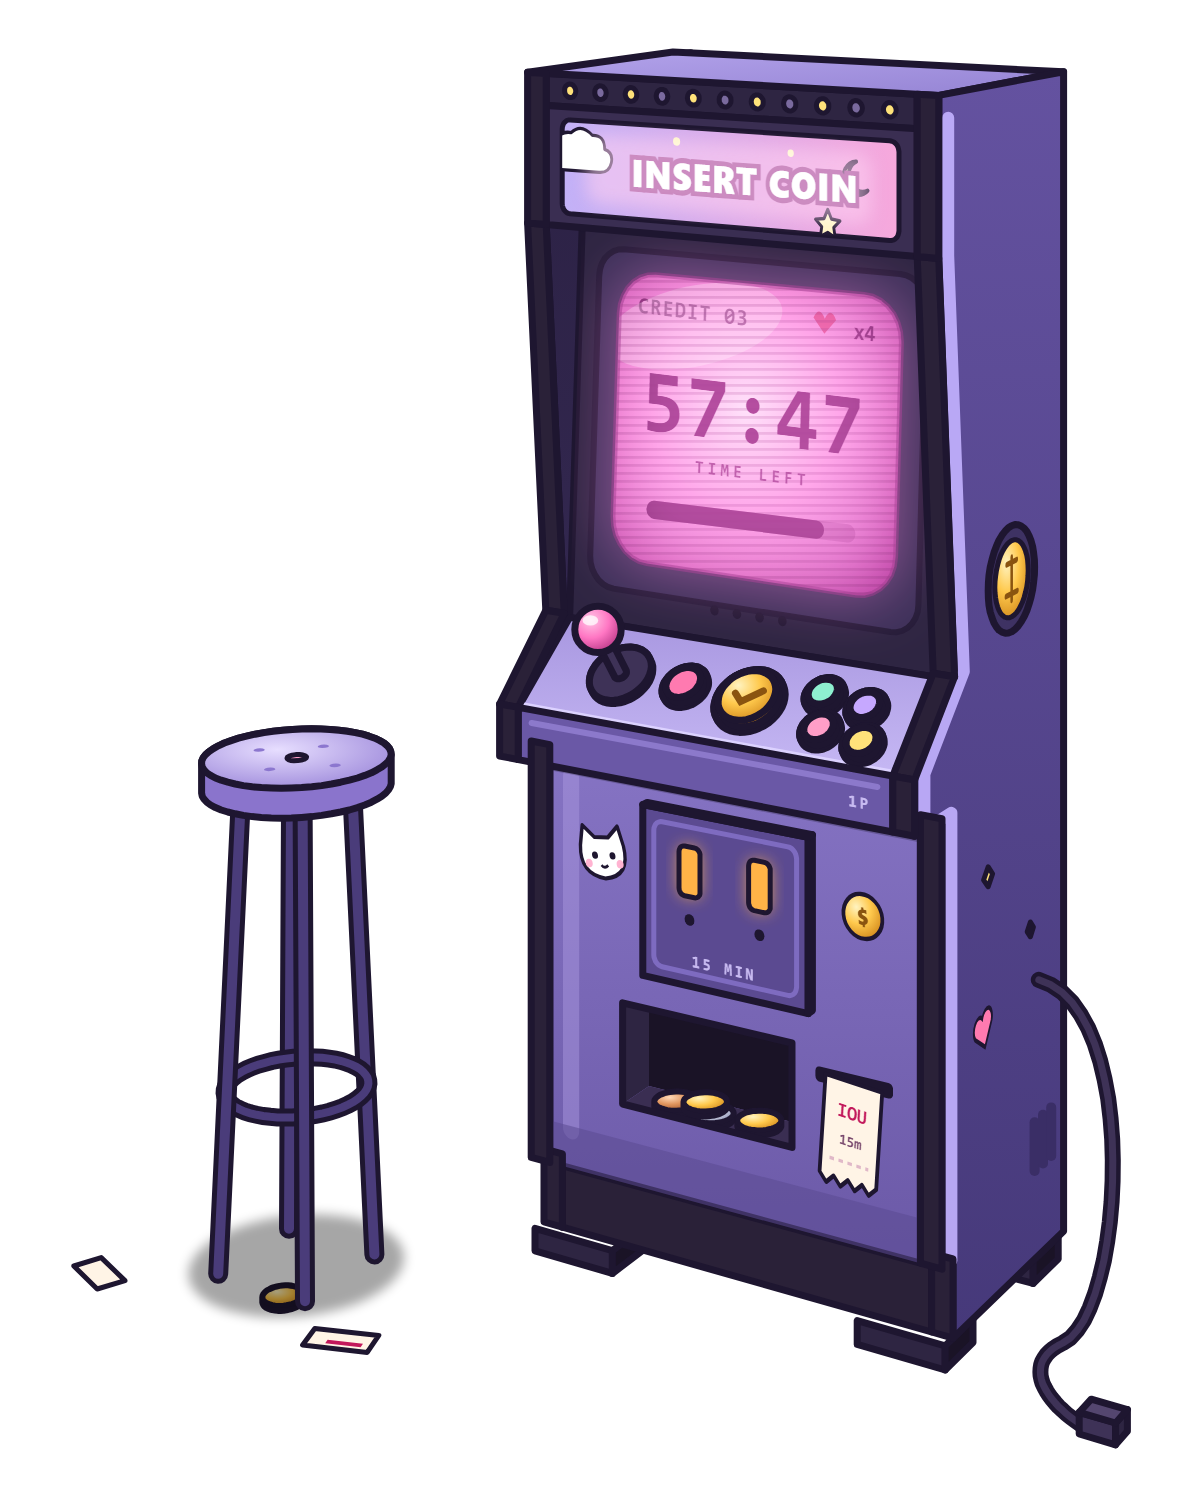
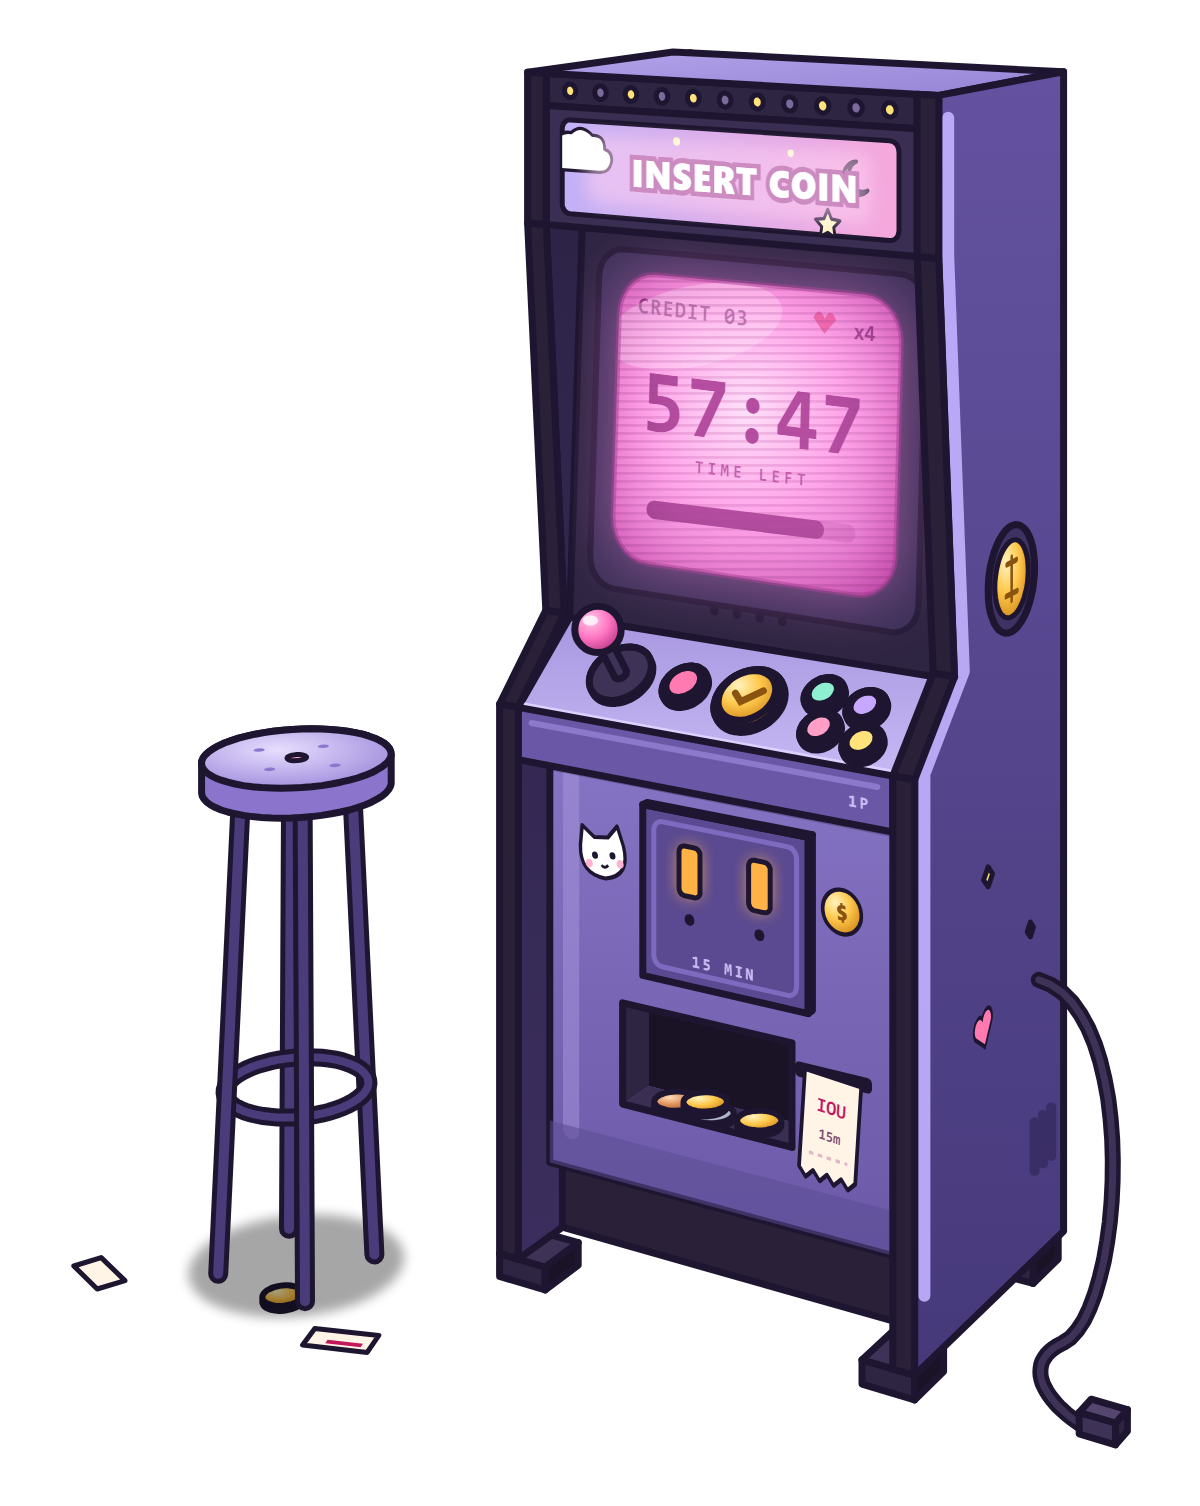
Cozy art v5.1: side panels run straight down from the control panel (continuous trim), feet flush under the panels

Changed region(s): [[0.6475, 0.5305, 0.8325, 0.9363], [0.4008, 0.4681, 0.5242, 0.8738]]

diff --git a/tools/art/cozy_cabinet.py b/tools/art/cozy_cabinet.py
@@ -31,7 +31,8 @@ CP_FRONT, CP_LIP_BOT = (-30, 338), (-30, 306)
 BODY_TOP, BODY_BOT = (4, 306), (4, 46)
 KICK_TOP, KICK_BOT = (18, 46), (18, 0)
 # Front edge of the side panels (z, y), top to bottom; also the outline of the side art.
-EDGE = [HOOD_TOP, MARQ_BOT, (20, 384), CP_FRONT, CP_LIP_BOT, BODY_TOP, BODY_BOT, KICK_TOP, KICK_BOT]
+# Below the control panel the panels run straight down to the floor; body and kick sit recessed between them.
+EDGE = [HOOD_TOP, MARQ_BOT, (20, 384), CP_FRONT, (CP_FRONT[0], 0)]
 SIDE = EDGE + [(BACK, 0), (BACK, ROOF)]
 
 
@@ -214,9 +215,10 @@ def ground_shadow():
 
 
 def feet():
-    fills = {"front": "#2E2542", "right": "#1A1326", "left": "#231A33"}
-    return (f'<g id="feet">{box((XO - 58, FLOOR, BACK - 44), (58, -FLOOR, 36), fills)}'
-            f'{box((-XO, FLOOR, 8), (58, -FLOOR, 36), fills)}{box((XO - 58, FLOOR, 8), (58, -FLOOR, 36), fills)}</g>')
+    fills = {"front": "#2E2542", "right": "#1A1326", "left": "#231A33", "top": "#3E3257"}
+    front, fw = CP_FRONT[0], 34                     # pads sit under the side panels, flush with their front edge
+    return (f'<g id="feet">{box((XO - fw, FLOOR, BACK - 44), (fw, -FLOOR, 36), fills)}'
+            f'{box((-XO, FLOOR, front), (fw, -FLOOR, 36), fills)}{box((XO - fw, FLOOR, front), (fw, -FLOOR, 36), fills)}</g>')
 
 
 def inner_wall():
@@ -344,7 +346,7 @@ def body_face():
     <g clip-path="url(#trayClip)">{path(back, "#1A1326")}{path(left, "#2E2542")}{path(floor, "#3A2E52")}{coins}</g>
     {path(opening, "none", STROKE)}</g>''')
 
-    parts.append(path(on(body, rrect(190, 160, 52, 9, 3)), OUT))
+    parts.append(path(on(body, rrect(176, 160, 52, 9, 3)), OUT))
     cat = f'''<g transform="rotate(-8)" stroke="{OUT}" stroke-linejoin="round">
       <path d="M-16 -8 l3 -12 8 7 h10 l8 -7 3 12 q3 18 -16 20 q-19 -2 -16 -20 z" fill="#FFFFFF" stroke-width="2.5"/>
       <circle cx="-6" cy="-2" r="2.2" fill="{OUT}" stroke="none"/><circle cx="7" cy="-2" r="2.2" fill="{OUT}" stroke="none"/>
@@ -353,13 +355,13 @@ def body_face():
     coin = f'''<g transform="rotate(-6)"><circle r="13" fill="url(#gold)" stroke="{OUT}" stroke-width="2.5"/>
       <text y="5" text-anchor="middle" font-family="Segoe UI Black, sans-serif" font-size="13" fill="#8A5410">$</text></g>'''
     parts.append(body.decal(40, 64, f'<g transform="translate(40 64)">{cat}</g>'))
-    parts.append(body.decal(222, 66, f'<g transform="translate(222 66)">{coin}</g>'))
-    ticket = f'''<g transform="translate(216 165) rotate(4)" stroke="{OUT}" stroke-linejoin="round">
+    parts.append(body.decal(208, 66, f'<g transform="translate(208 66)">{coin}</g>'))
+    ticket = f'''<g transform="translate(202 165) rotate(4)" stroke="{OUT}" stroke-linejoin="round">
       <path d="M-19 0 H19 V58 l-4.75 5 -4.75 -5 -4.75 5 -4.75 -5 -4.75 5 -4.75 -5 -4.75 5 -4.75 -5 Z" fill="#FFF4E6" stroke-width="2.5"/>
       <text y="22" text-anchor="middle" font-family="Consolas, monospace" font-weight="bold" font-size="12" fill="#C2185B" stroke="none">IOU</text>
       <text y="38" text-anchor="middle" font-family="Consolas, monospace" font-weight="bold" font-size="9" fill="#7A4A6E" stroke="none">15m</text>
       <path d="M-13 48 H13" stroke="#E0B8C8" stroke-width="2" stroke-dasharray="3 3"/></g>'''
-    parts.append(f'<g id="iou-ticket">{body.decal(216, 190, ticket)}</g>')
+    parts.append(f'<g id="iou-ticket">{body.decal(202, 190, ticket)}</g>')
     return f'<g id="body">{"".join(parts)}</g>'
 
 
@@ -369,7 +371,7 @@ def roof_face():
 
 def side_panel():
     parts = [path(on(right_side, [(z, ROOF - y) for z, y in SIDE]), "url(#sideFill)", STROKE)]
-    stripe = [(z + 12, ROOF - y) for z, y in EDGE[:7]]
+    stripe = [(z + 12, ROOF - y) for z, y in EDGE[:4]] + [(CP_FRONT[0] + 12, ROOF - 40)]
     stripe[0] = (12, 14)
     parts.append(path(on(right_side, stripe), "none", 'stroke="#C3B2FF" stroke-width="6" stroke-linejoin="round" stroke-linecap="round" opacity="0.9"', closed=False))
     ea, eb = 96, 300
@@ -470,7 +472,7 @@ def anchors():
   {poly("check-button", cp_top, [(128, 16), (172, 16), (172, 60), (128, 60)])}
   {poly("joystick", cp_top, [(38, 16), (78, 16), (78, 56), (38, 56)])}
   {poly("coin-tray", body, [(54, 150), (174, 150), (174, 212), (54, 212)])}
-  {poly("printer", body, [(190, 160), (242, 160), (242, 169), (190, 169)])}
+  {poly("printer", body, [(176, 160), (228, 160), (228, 169), (176, 169)])}
 </g>'''
 
 
